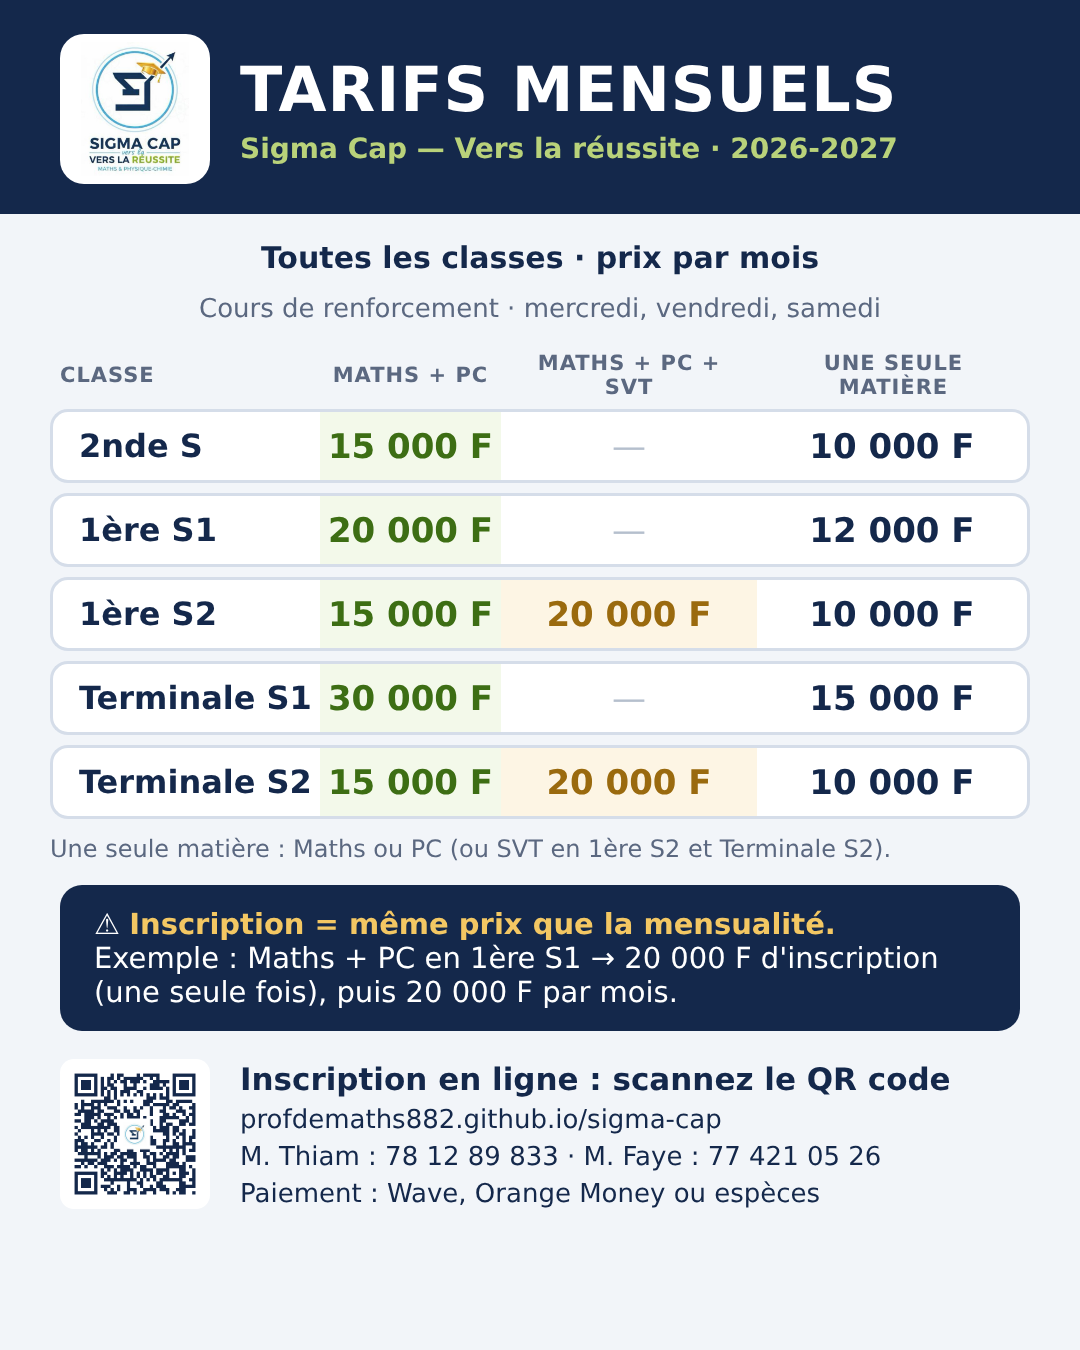
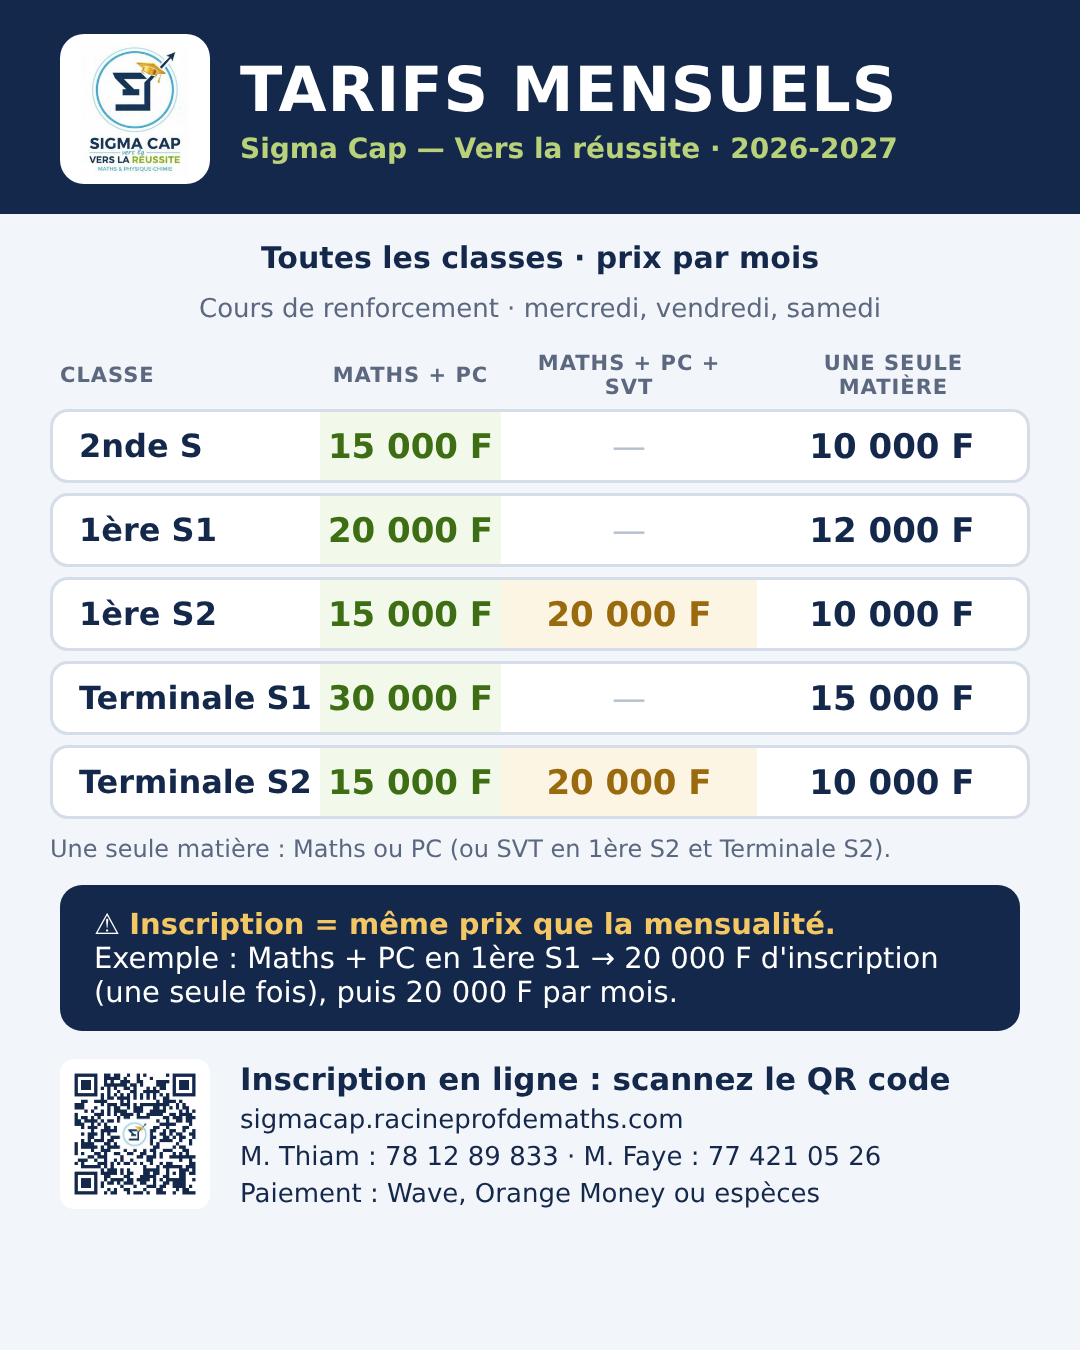
QR codes et flyer vers la nouvelle adresse
Claude-Session: https://claude.ai/code/session_011QCenhXJgct1NLWhwAbZL6

Changed region(s): [[0.2139, 0.8089, 0.6722, 0.84], [0.0611, 0.7778, 0.1833, 0.9022]]

diff --git a/app.js b/app.js
@@ -367,7 +367,7 @@
   }
 
   /* ---------- partage : inviter des élèves (places limitées) ---------- */
-  const shareLink = () => CFG.SITE_URL || 'https://profdemaths882.github.io/sigma-cap/';
+  const shareLink = () => CFG.SITE_URL || 'https://sigmacap.racineprofdemaths.com/';
   const shareMsg = () => { const r = nextSession(); return `🎓 Sigma Cap — Vers la réussite\nCours de renforcement Maths · PC · SVT au ${S.settings.lieu || 'CEM Kennedy'} (2nde S à Terminale S).${r ? `\n📅 Rendez-vous ${rdvTxt(r).toLowerCase()} au ${S.settings.lieu || 'CEM Kennedy'}.` : ''}\n⚠ Les places sont limitées : inscris-toi vite en ligne 👇\n${shareLink()}`; };
   const shareWa = () => 'https://wa.me/?text=' + encodeURIComponent(shareMsg());
 
@@ -526,7 +526,7 @@
           <p class="eyebrow">Partager Sigma Cap</p>
           <h2 style="margin-top:8px">Invite tes camarades : les places sont limitées</h2>
           <p>Envoie le lien à un camarade ou à un parent, ou montre-lui ce QR code : il ouvre directement cette page sur son téléphone.</p>
-          <p class="small muted num">profdemaths882.github.io/sigma-cap</p>
+          <p class="small muted num">sigmacap.racineprofdemaths.com</p>
           <div class="share-row">
             <a class="btn go" target="_blank" rel="noopener" href="${shareWa()}">Partager sur WhatsApp</a>
             <button type="button" class="btn" data-act="share"><svg viewBox="0 0 24 24" width="18" height="18" aria-hidden="true" fill="none" stroke="currentColor" stroke-width="2.2" stroke-linecap="round" stroke-linejoin="round"><circle cx="18" cy="5" r="3"/><circle cx="6" cy="12" r="3"/><circle cx="18" cy="19" r="3"/><path d="M8.6 13.5l6.8 4M15.4 6.5l-6.8 4"/></svg> Autres partages</button>

diff --git a/index.html b/index.html
@@ -39,7 +39,7 @@ if (/github\.io$/.test(location.hostname)) location.replace('https://sigmacap.ra
 <link rel="preconnect" href="https://fonts.googleapis.com">
 <link rel="preconnect" href="https://fonts.gstatic.com" crossorigin>
 <link rel="stylesheet" href="https://fonts.googleapis.com/css2?family=Archivo:wght@600;800;900&family=Figtree:wght@400;500;600;700&display=swap">
-<link rel="stylesheet" href="styles.css?v=202611021837">
+<link rel="stylesheet" href="styles.css?v=202611021838">
 </head>
 <body>
 <div id="app"><main style="max-width:760px;margin:40px auto;padding:0 16px;font-family:sans-serif;color:#14284b">
@@ -60,10 +60,10 @@ if (/github\.io$/.test(location.hostname)) location.replace('https://sigmacap.ra
 </main></div>
 <div id="modal-root"></div>
 <div id="toast" role="status" aria-live="polite" hidden></div>
-<script src="config.js?v=202611021837"></script>
-<script src="data.js?v=202611021837"></script>
-<script src="core.js?v=202611021837"></script>
-<script src="learn.js?v=202611021837"></script>
-<script src="app.js?v=202611021837"></script>
+<script src="config.js?v=202611021838"></script>
+<script src="data.js?v=202611021838"></script>
+<script src="core.js?v=202611021838"></script>
+<script src="learn.js?v=202611021838"></script>
+<script src="app.js?v=202611021838"></script>
 </body>
 </html>

diff --git a/sw.js b/sw.js
@@ -1,5 +1,5 @@
 // Sigma Cap — fonctionne hors connexion pour la page (les données restent en ligne)
-const V = 'sigma-cap-v202611021837';
+const V = 'sigma-cap-v202611021838';
 const FILES = ['./', 'index.html', 'styles.css', 'app.js', 'core.js', 'learn.js', 'data.js', 'config.js', 'manifest.webmanifest',
   'img/logo-full.jpg', 'img/mark.png', 'img/thiam.jpg', 'img/faye.jpg', 'img/sene.jpg', 'img/thiam-p.jpg', 'img/faye-p.jpg', 'img/sene-p.jpg', 'img/profdemaths.jpg', 'img/icon-192.png', 'img/icon-512.png', 'img/qrcode.png'];
 self.addEventListener('install', e => { e.waitUntil(caches.open(V).then(c => c.addAll(FILES)).then(() => self.skipWaiting())); });
